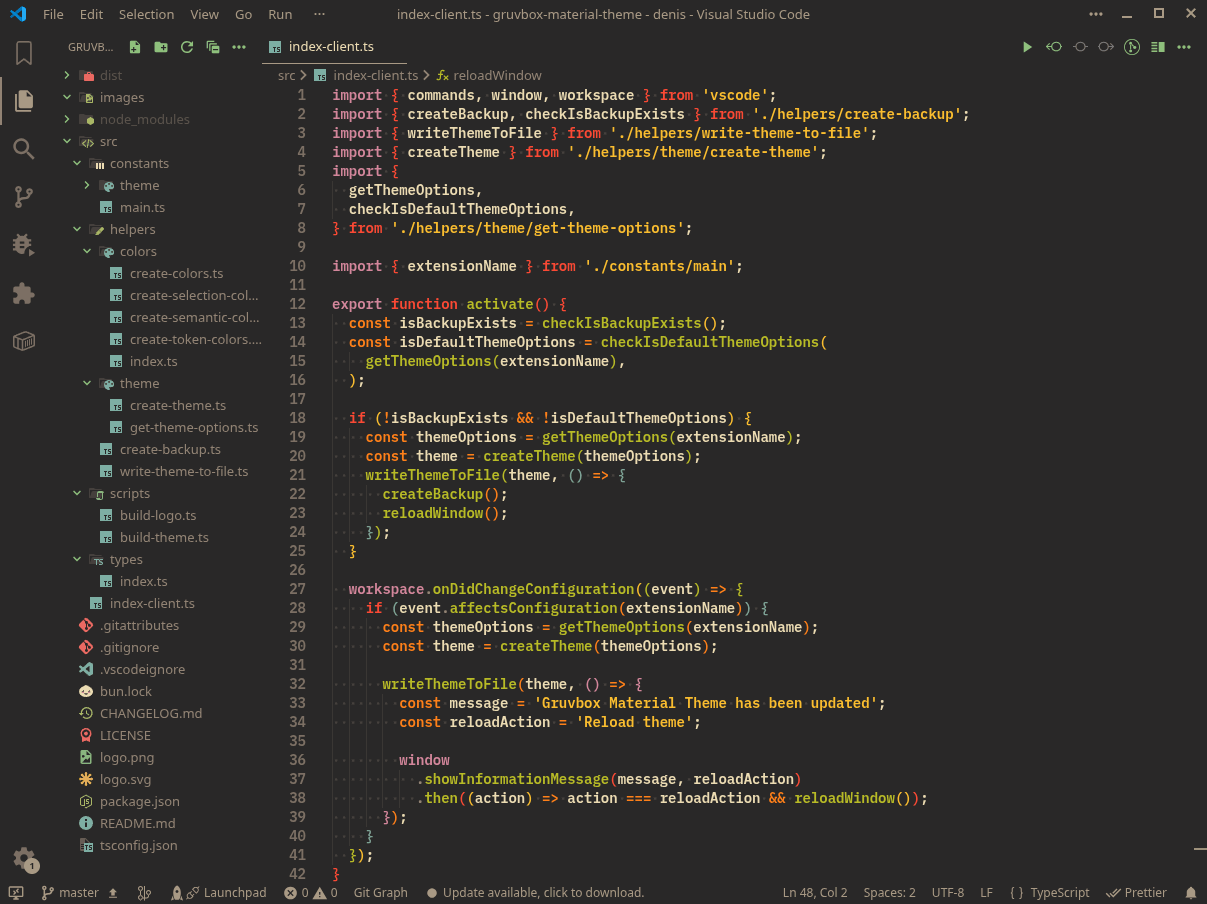
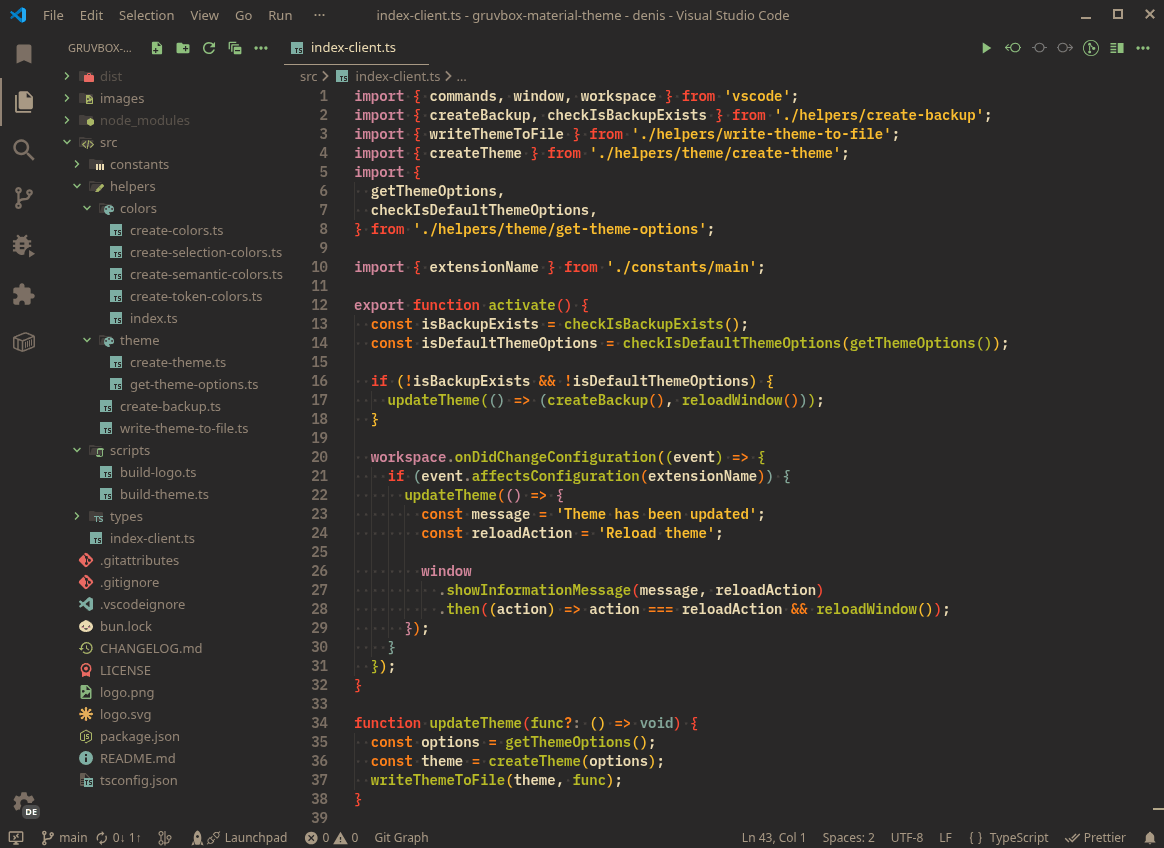
v1.0.3

diff --git a/src/index-client.ts b/src/index-client.ts
@@ -11,25 +11,15 @@ import { extensionName } from './constants/main';
 
 export function activate() {
   const isBackupExists = checkIsBackupExists();
-  const isDefaultThemeOptions = checkIsDefaultThemeOptions(
-    getThemeOptions(extensionName),
-  );
+  const isDefaultThemeOptions = checkIsDefaultThemeOptions(getThemeOptions());
 
   if (!isBackupExists && !isDefaultThemeOptions) {
-    const themeOptions = getThemeOptions(extensionName);
-    const theme = createTheme(themeOptions);
-    writeThemeToFile(theme, () => {
-      createBackup();
-      reloadWindow();
-    });
+    updateTheme(() => (createBackup(), reloadWindow()));
   }
 
   workspace.onDidChangeConfiguration((event) => {
     if (event.affectsConfiguration(extensionName)) {
-      const themeOptions = getThemeOptions(extensionName);
-      const theme = createTheme(themeOptions);
-
-      writeThemeToFile(theme, () => {
+      updateTheme(() => {
         const message = 'Theme has been updated';
         const reloadAction = 'Reload theme';
 
@@ -41,7 +31,11 @@ export function activate() {
   });
 }
 
-export function deactivate() {}
+function updateTheme(func?: () => void) {
+  const options = getThemeOptions();
+  const theme = createTheme(options);
+  writeThemeToFile(theme, func);
+}
 
 function reloadWindow() {
   commands.executeCommand('workbench.action.reloadWindow');

diff --git a/src/helpers/theme/get-theme-options.ts b/src/helpers/theme/get-theme-options.ts
@@ -1,5 +1,5 @@
 import { workspace } from 'vscode';
-import { defaultThemeOptions } from '../../constants/main';
+import { defaultThemeOptions, extensionName } from '../../constants/main';
 import {
   type CursorColor,
   type SelectionColor,
@@ -8,8 +8,9 @@ import {
   type ThemePalette,
 } from '../../types';
 
-export function getThemeOptions(key: string): ThemeOptions {
-  const config = workspace.getConfiguration(key);
+export function getThemeOptions(): ThemeOptions {
+  const config = workspace.getConfiguration(extensionName);
+
   const contrast = config.get<ThemeContrast>('contrast');
   const cursor = config.get<CursorColor>('cursor');
   const palette = config.get<ThemePalette>('palette');

diff --git a/src/helpers/colors/create-token-colors.ts b/src/helpers/colors/create-token-colors.ts
@@ -18,7 +18,6 @@ export function createTokenColors({
         'keyword.operator.delete',
         'keyword.operator.expression',
         'keyword.operator.new',
-        'keyword.operator.new',
         'keyword',
         'storage.type.class',
         'storage.type.enum',
@@ -83,7 +82,6 @@ export function createTokenColors({
       name: 'String Escape',
       scope: [
         'constant.character.escape',
-        'constant.other.placeholder',
         'constant.other.placeholder',
         'punctuation.definition.template-expression',
         'punctuation.quasi.element',

diff --git a/src/helpers/theme/create-theme.ts b/src/helpers/theme/create-theme.ts
@@ -55,11 +55,15 @@ export function createTheme(themeOptions: ThemeOptions): Theme {
     selectionColors,
   });
 
-  const tokenColors = createTokenColors({ contrastColors, paletteColors });
+  const tokenColors = createTokenColors({
+    contrastColors,
+    paletteColors,
+  });
+
   const semanticTokenColors = createSemanticColors(paletteColors);
 
   return {
-    palette: themeOptions.palette,
+    palette,
     colors,
     tokenColors,
     semanticHighlighting: true,

diff --git a/src/types/index.ts b/src/types/index.ts
@@ -1,7 +1,3 @@
-export type ThemePalette = 'classic' | 'material';
-
-export type ThemeContrast = 'soft' | 'medium' | 'hard';
-
 type BaseColor =
   | 'aqua'
   | 'blue'
@@ -10,6 +6,9 @@ type BaseColor =
   | 'purple'
   | 'red'
   | 'yellow';
+
+export type ThemePalette = 'classic' | 'material';
+export type ThemeContrast = 'soft' | 'medium' | 'hard';
 
 export type PaletteColor = BaseColor | `${BaseColor}Dim`;
 export type CursorColor = BaseColor | 'white';

diff --git a/README.md b/README.md
@@ -14,9 +14,9 @@
 </h3>
 
 <p align="center">
-  <a href="https://marketplace.visualstudio.com/items?itemName=navernoedenis.gruvbox-material-icons"><img src="https://img.shields.io/badge/v1.0.2-%23000?style=for-the-badge&label=version&color=%23a9b665" alt="version"></a>&nbsp;
+  <a href="https://marketplace.visualstudio.com/items?itemName=navernoedenis.gruvbox-material-icons"><img src="https://img.shields.io/badge/v1.0.3-%23000?style=for-the-badge&label=version&color=%23a9b665" alt="version"></a>&nbsp;
   <a href="https://marketplace.visualstudio.com/items?itemName=navernoedenis.gruvbox-material-icons"><img src="https://img.shields.io/badge/0%2F0(0)-%23000?style=for-the-badge&label=rating&color=%23e3ae5a" alt="rating"></a>&nbsp;
-  <a href="https://marketplace.visualstudio.com/items?itemName=navernoedenis.gruvbox-material-icons"><img src="https://img.shields.io/badge/10+-%23000?style=for-the-badge&label=installs&color=%23ebdbb2" alt="installs"></a>&nbsp;
+  <a href="https://marketplace.visualstudio.com/items?itemName=navernoedenis.gruvbox-material-icons"><img src="https://img.shields.io/badge/20+-%23000?style=for-the-badge&label=installs&color=%23ebdbb2" alt="installs"></a>&nbsp;
 </p>
 
 <h2 align="center">Palette: Material</h2>

diff --git a/CHANGELOG.md b/CHANGELOG.md
@@ -1,18 +1,24 @@
 # Changelog
 
+## 1.0.3
+
+- Removed duplicates in the token creation function
+- Improved codebase
+- Updated theme screenshots
+
 ## 1.0.2
 
 - Fixed an issue with the applied color on python `self`
-- Fixed inconsistent text foreground colors between arrows and functions in React components
+- Fixed inconsistent naming text colors between arrow components and function components in react
 
 ## 1.0.1
 
 - Updated the logo
-- Improved code base and corrected typos
+- Improved codebase and corrected typos
 - Updated `README.md`
 
 ## 1.0.0
 
 - Initial release
-- Added two palettes: Material and Classic
+- Added two palettes: material and classic
 - Customizable contrast, cursor and selection colors
